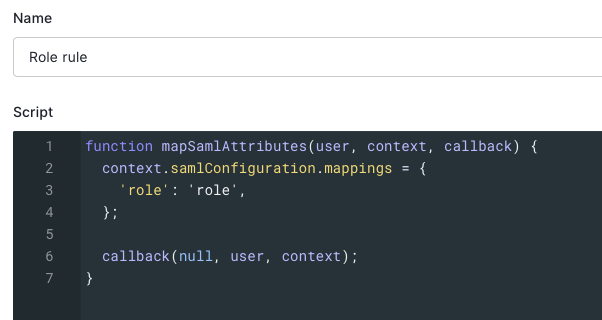
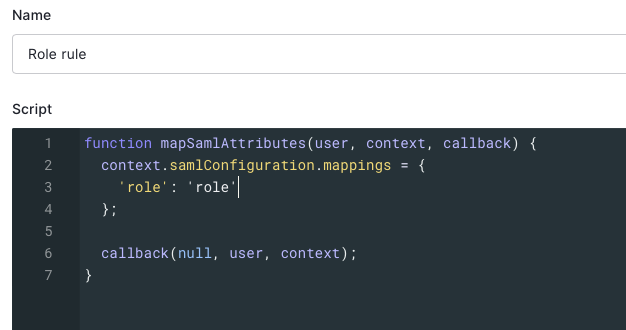
updates

diff --git a/experiences/virtual-event/using-role-based-access-control.html b/experiences/virtual-event/using-role-based-access-control.html
@@ -58,7 +58,7 @@ layout: staging
         <pre class="line-numbers"><code class="language-javascript" translate="No">
 function mapSamlAttributes(user, context, callback) {
   context.samlConfiguration.mappings = {
-    'role': 'role',
+    'role': 'role'
   };
 
   callback(null, user, context);
